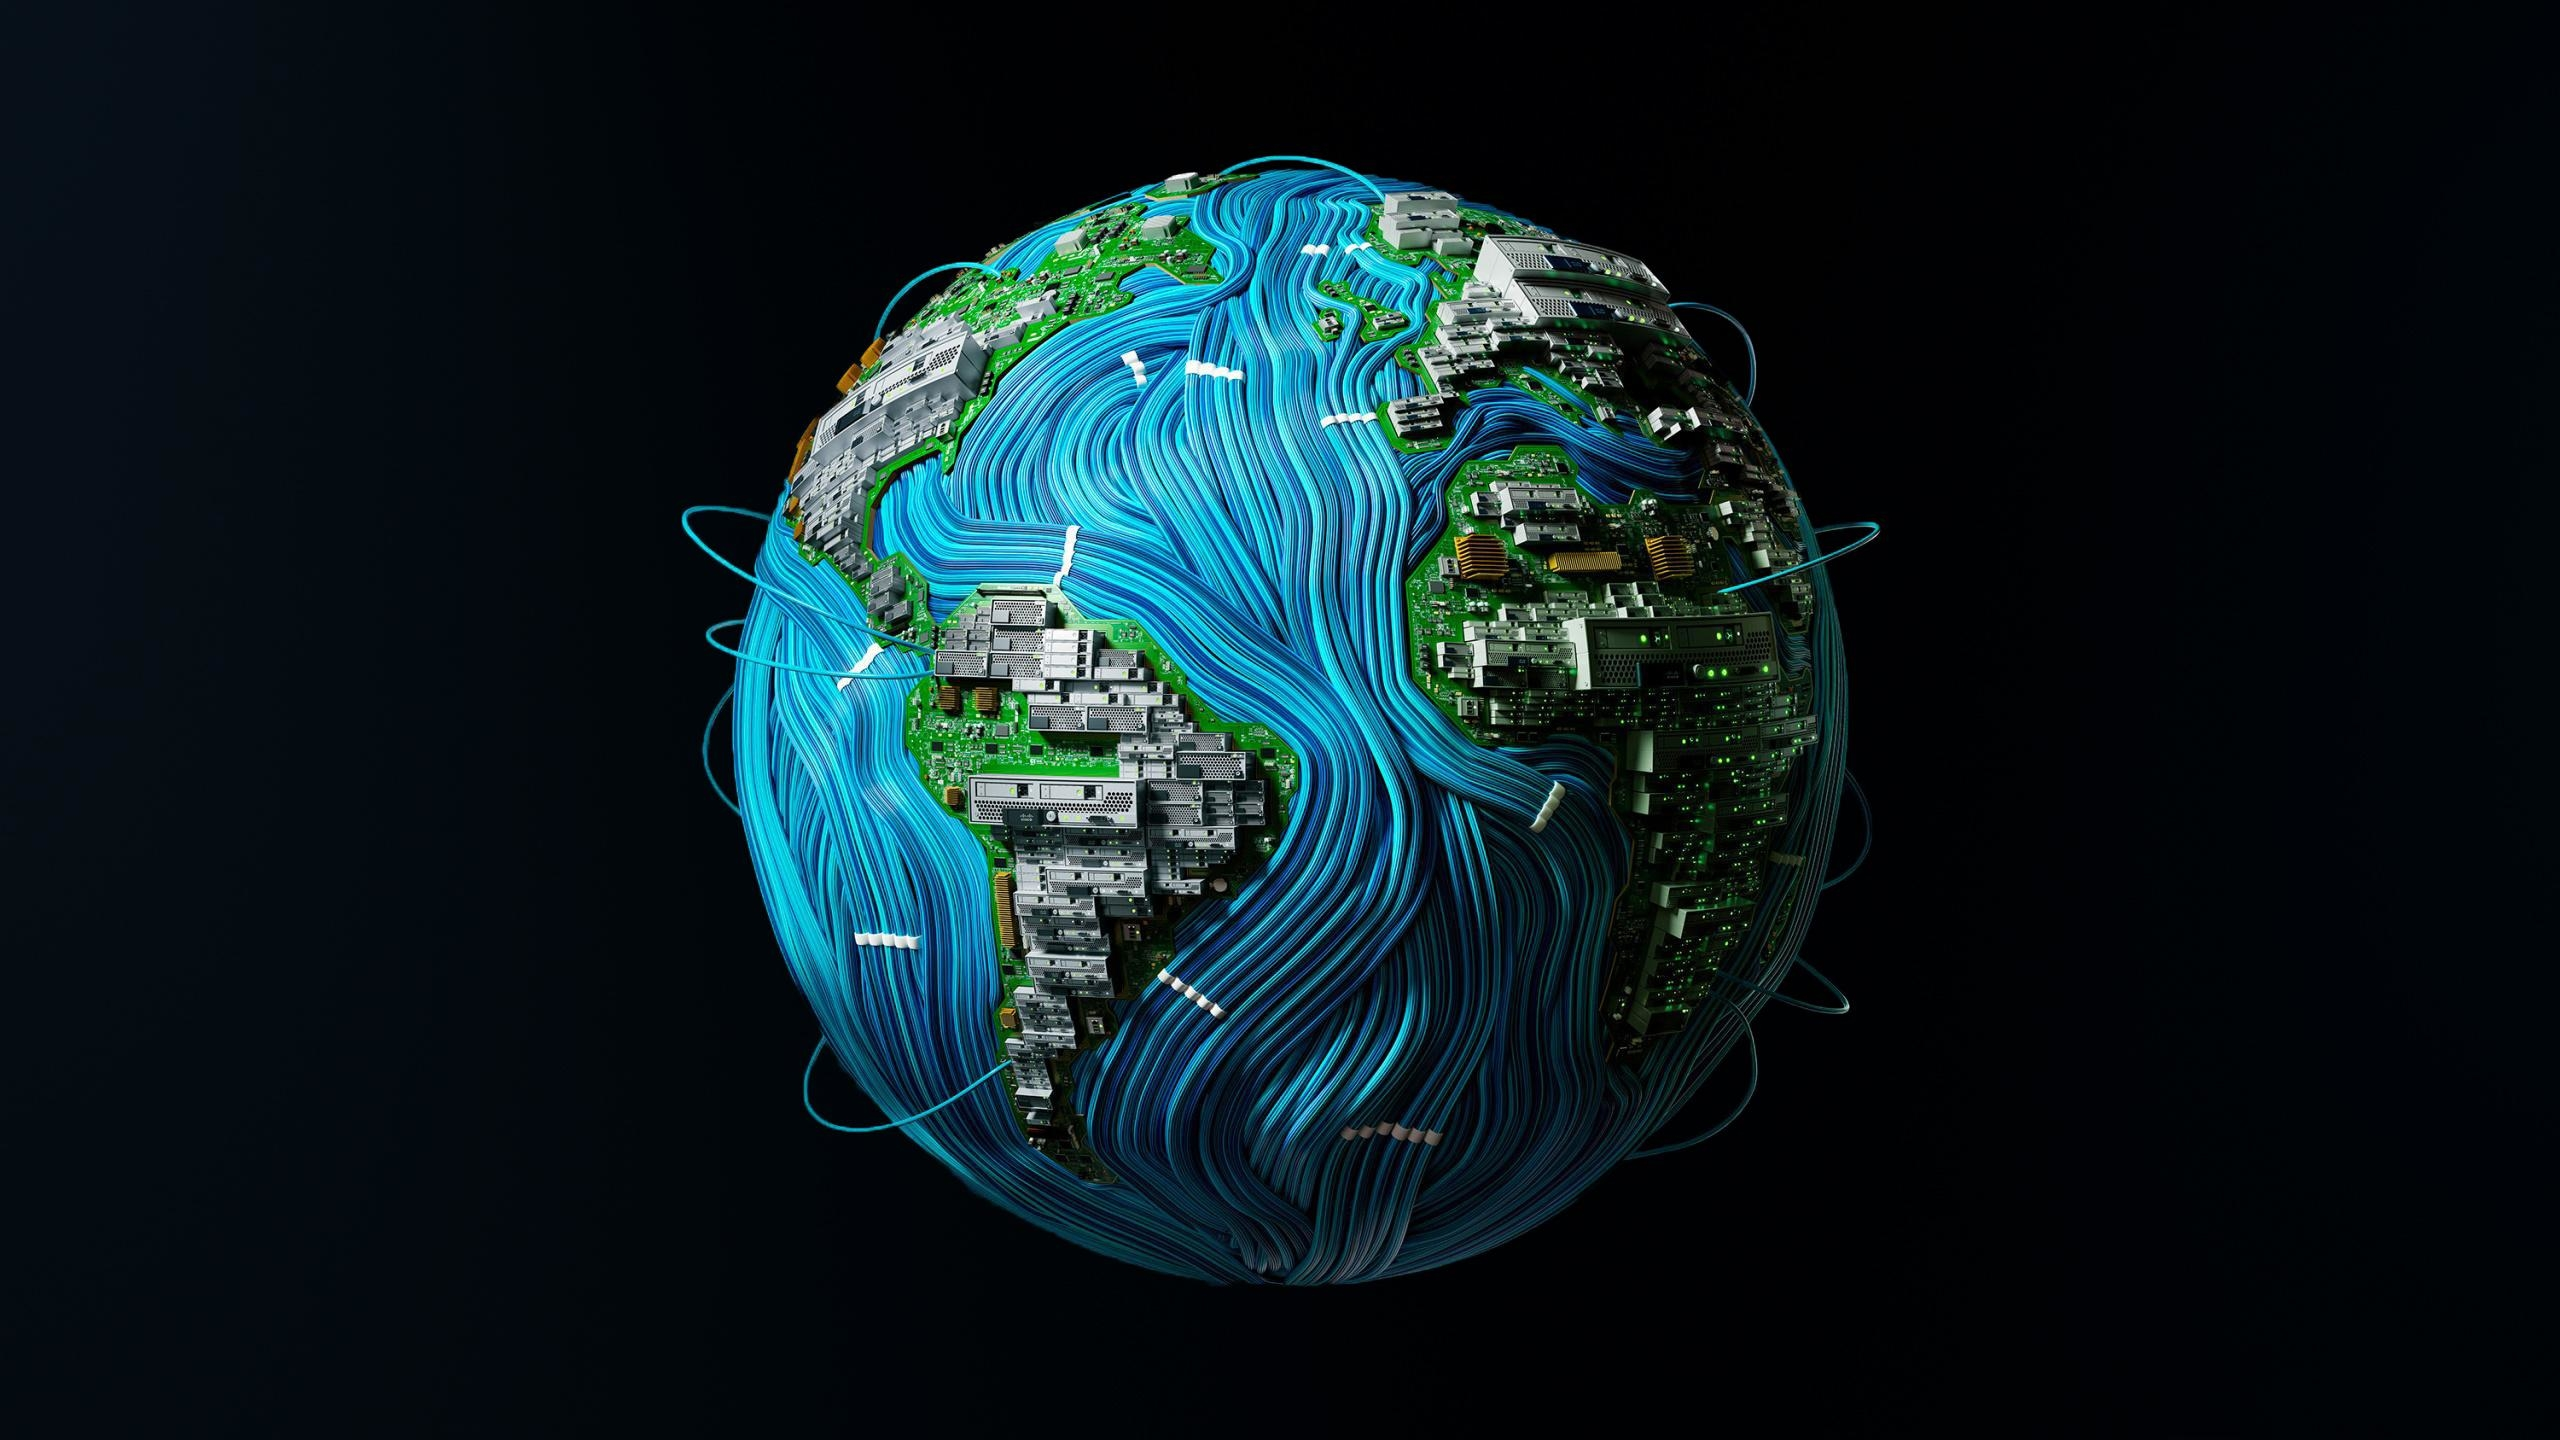
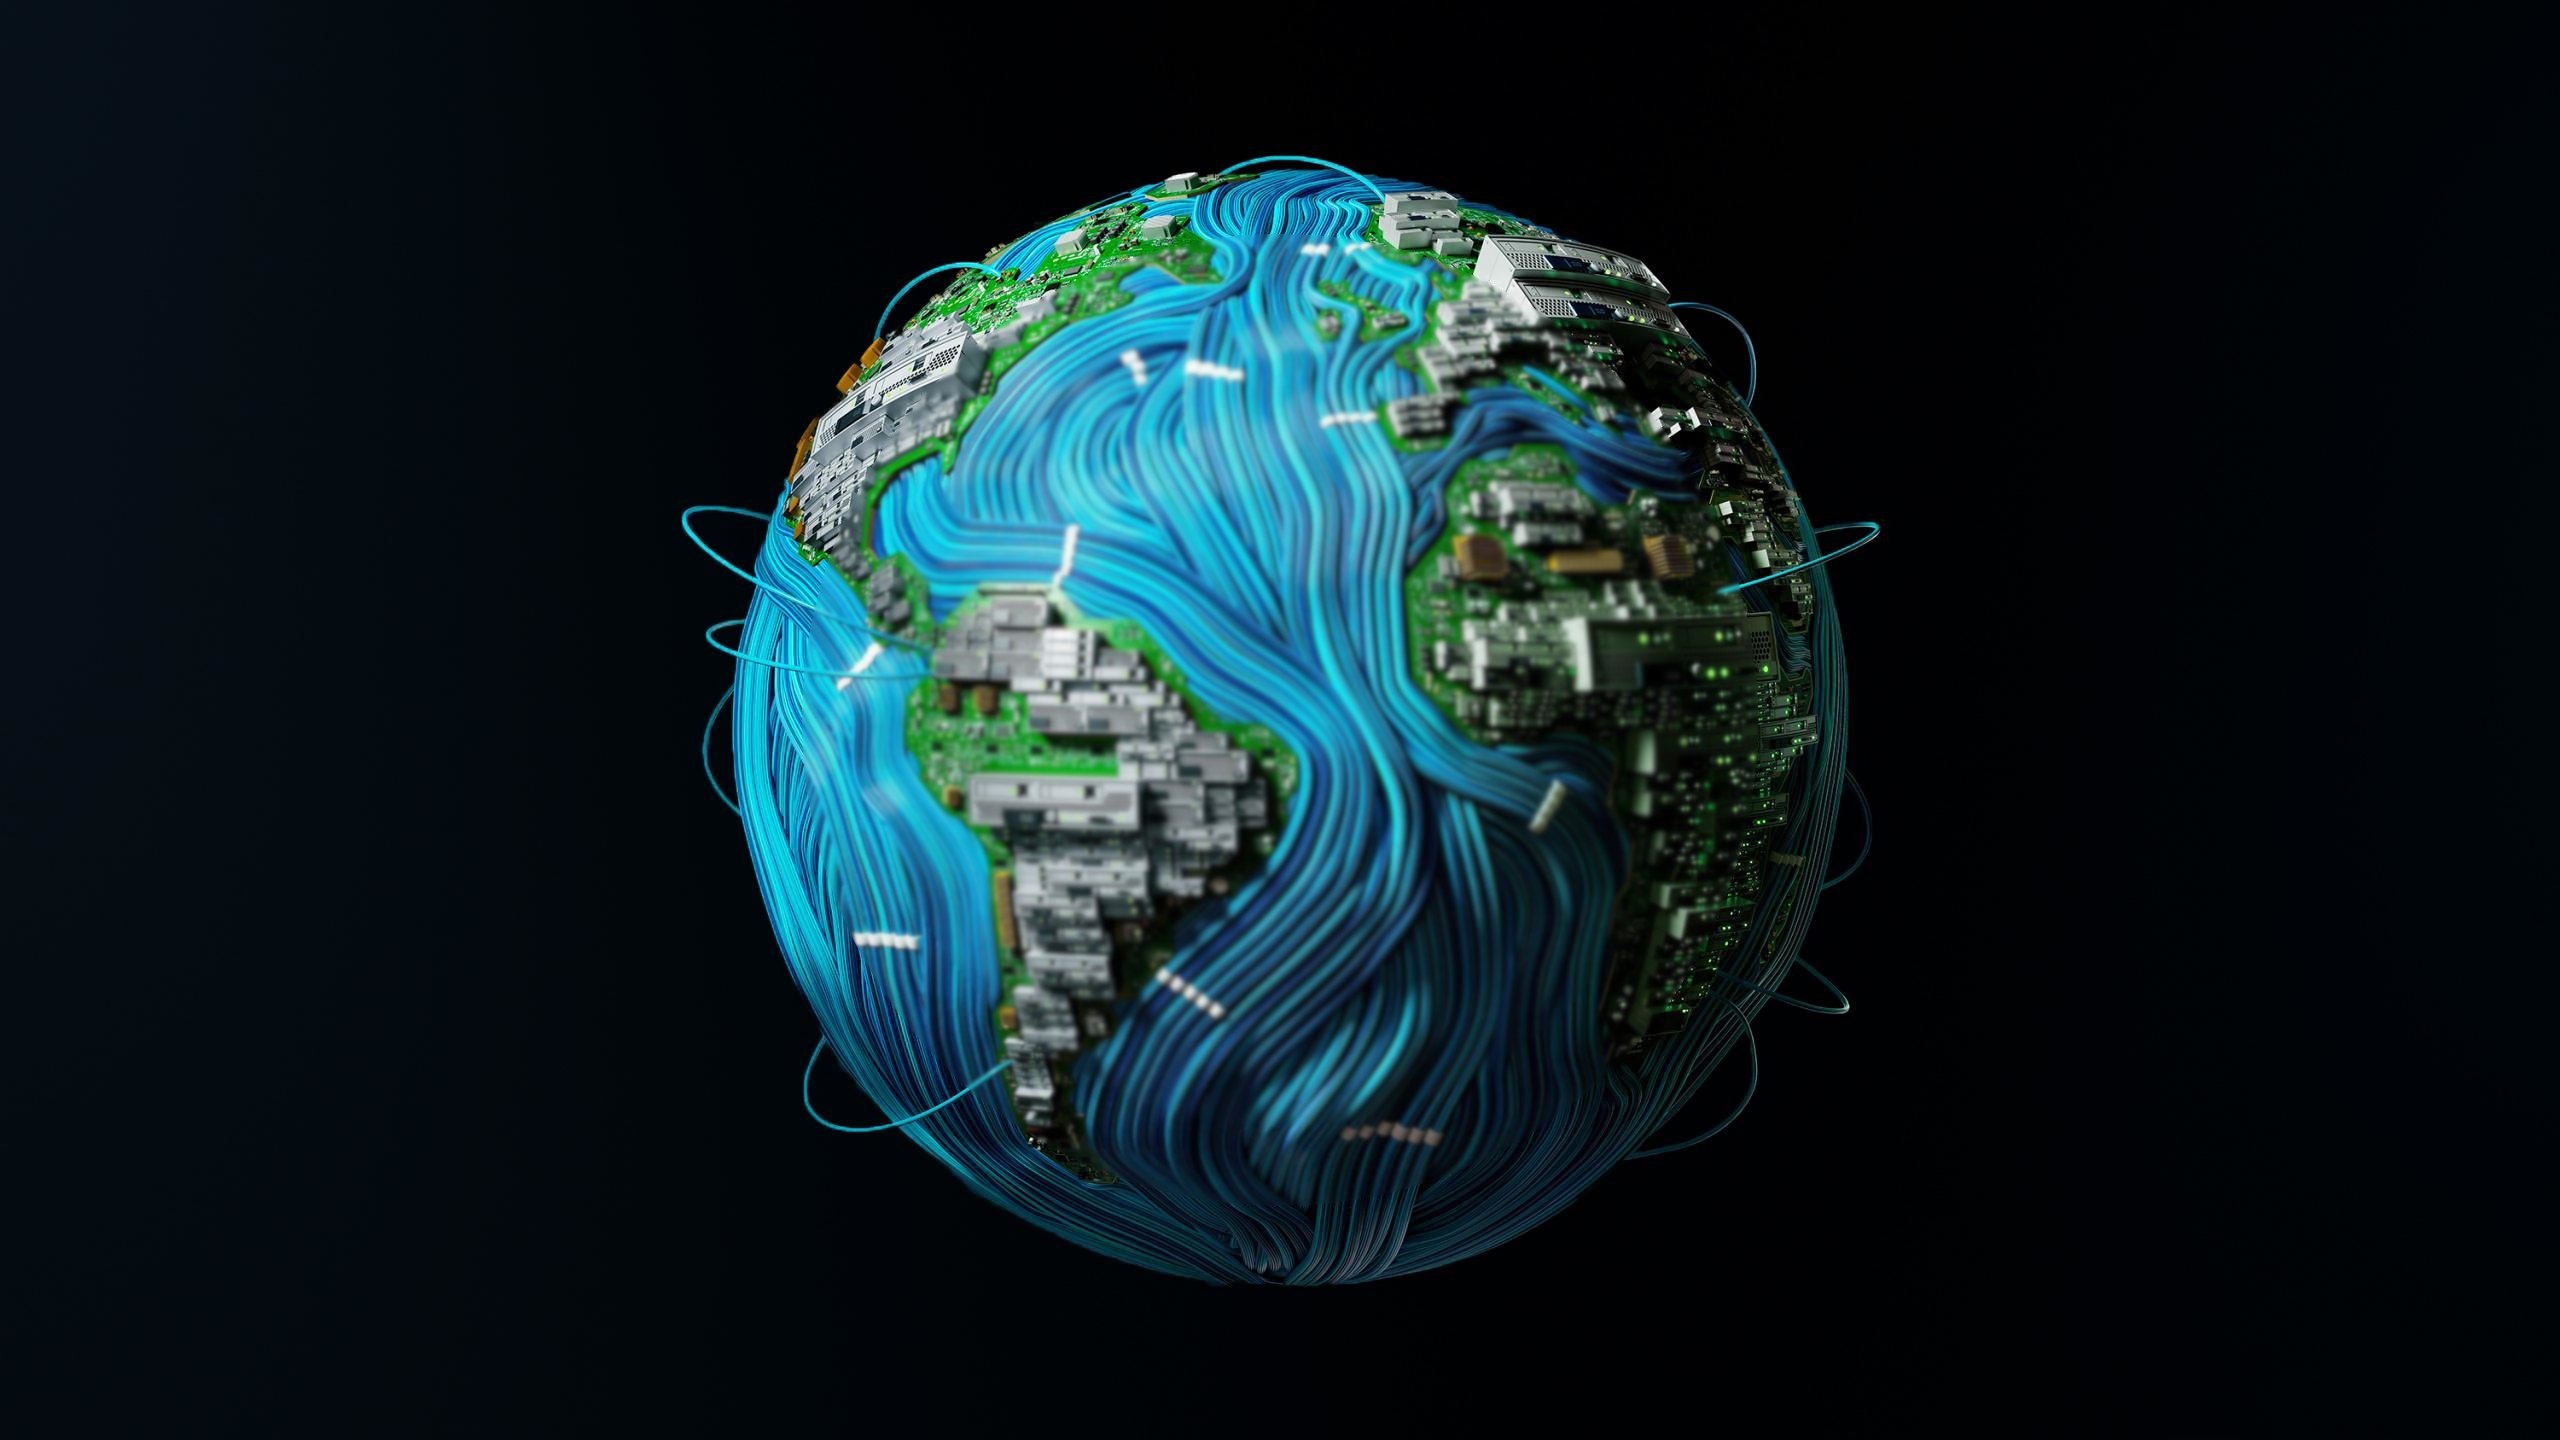
Updated 3/19/2022, Version 2.1. Added counter Remade background for text Remade colors Blured background image

Changed region(s): [[0.3125, 0.1562, 0.6875, 0.7812], [0.6562, 0.625, 0.6875, 0.6562]]

diff --git a/index.html b/index.html
@@ -12,6 +12,7 @@
 body {font-family: "Lato", sans-serif}
 .mySlides {display: none}
 </style>
+
 </head>
 <body>
 <!-- Navbar -->
@@ -167,21 +168,48 @@ scroll-snap-stop: always;
 .snap2 {
   position: relative;
 }
-.vertical div.snap h3 {position:absolute; bottom:250px; width:400px; padding:10px; left:calc(50% - 200px); color:#00000; text-align:center; font:20px/25px arial, sans-serif; background:#fff; border-radius:10px;}
+.vertical div.snap h3 {position:absolute; bottom:250px; width:400px; padding:10px; left:calc(50% - 200px); color:#ffff; text-align:center; font:400 20px/25px arial, sans-serif; background:rgba(0, 0, 0, 0.5); border-radius:10px;}
 .vertical div.stick h1 {position:absolute; padding:0; margin:0; bottom:0; left:calc(50% - 160px); width:320px; background:#fff; text-align:center; font:600 45px/90px arial, sans-serif; border-radius:10px 10px 0 0; color:#000;}
 .vertical div.snap .info {width:95%; max-width:700px; position:absolute; left:50%; top:50%; transform:translate(-50%, -50%); border-radius:50px; padding:30px;}
-.vertical div.snap .info h1 {padding:0; margin:0; font:400 100px/200px arial, sans-serif; color:#fff; text-align:center; text-shadow: -1px -1px 0 #000000, 1px -1px 0 #000000, -1px 1px 0 #000000, 1px 1px 0 #000000;}
-.vertical div.snap .info p {font:200 25px/50px arial, sans-serif; color:#fff;text-shadow: -1px -1px 0 #000000, 1px -1px 0 #000000, -1px 1px 0 #000000, 1px 1px 0 #000000;}
+.vertical div.snap .info h1 {padding:0; margin:0; font:600 120px/200px arial, sans-serif; color:#fff; text-align:center;}
+.vertical div.snap .info p {font:300 45px/70px arial, sans-serif; color:#fff;}
+</style>
+
+
+<script>
+function cb(response) {
+    document.getElementById('visits').innerText = response.value;
+}
+</script>
+<script async src="https://api.countapi.xyz/hit/jameswolfeblog.com/visits?callback=cb"></script>
+
+<style>
+#visits {
+  color:white;
+  font-size: 40px;
+}
 </style>
 
 <center>
          <div class="vertical" style="overflow-y: scroll;">
-       			<div class="stick"><img src="images/image.jpg"></div><div class="snap"><div class="info"><h1>ABLOG</h1><center><p>By James Wolfe</p></center><p></p></div></div>
-            <div class="stick"><h1>ABOUTME</h1></div><div class="snap"><h3>I'm a passioante computer science major with years of computer technology expierince with a enthusiastic look on learning every time I start something new. Fleshing out; developing, and publishing websites is fun for me and I can utilize neat services like the AWS Cloud and Github pages. My creative and problem-solving side is a great fit for technical professions. If you believe I could be a great fit for your team I would love to have a chat with you about potential opportunities, please email or message me on any social media platforms I provided.</h3></div>
+       			<div class="stick"><img src="images/image.jpg"></div>
+            <div class="snap" ><div class="info" style="background-color:rgba(0, 0, 0, 0.5);"><h1>ABLOG</h1>
+            <p>By James Wolfe</p>
+            <div><img src="images/icon.jpg" style="float:left; display:inline-block; margin-left:235px;margin-bottom:20px;"></div>
+            <div id="visits" style="float:left;text-align:center; padding-top:10px;">...</div></p>
+            </div>
+          </div>
+
+
+
+            <div class="stick"><h1>ABOUTME</h1></div><div class="snap"><h3>I'm a passioante computer science major with years of computer technology expierince with a enthusiastic look on learning every time I start something new. Fleshing out; developing, and publishing websites is fun for me and I can utilize neat services like the AWS Cloud and Github pages. My creative and problem-solving side is a great fit for technical professions. If you believe I could be a great fit for your team I would love to have a chat with you about potential opportunities, please email or message me on any social media platforms I provided.
+            </h3>
+          </div>
        			<div class="stick"><h1>WORKS</h1></div><div class="snap">
               <h3><a href="http://awsportfolio.s3-website-us-east-1.amazonaws.com/" target="_blank">AWS Cloud Website Portfolio</a>
               <br>Utilized AWS Cloud services to host,store, and launch a static website with HTML, css, and javascript code. The S3 bucket was used to store the data and launch a free static website.
-              <br><br>
+              <br>
+              <br>
               <a href="https://portfolioazure.z13.web.core.windows.net/" target="_blank">Azure Static Website Portfolio</a>
               <br>Azure services storage container were used to store the data and subscription service was used to host the free static website.
               </h3>
@@ -189,7 +217,8 @@ scroll-snap-stop: always;
               <div class="stick"><h1></h1></div><div class="snap">
                 <h3><a href="http://wolfejamesportfolio.surge.sh/" target="_blank">Surge Static Website portfolio</a>
                   <br>Using a publishing service called surge I was able to stand up a static website in seconds by using the CMD to go to the correct path and simply publishing the website.
-                  <br><br>
+                  <br>
+                  <br>
                   <a href="https://wolfejamesj96.wixsite.com/my-site" target="_blank">Wix Static Website Portfolio</a>
                   <br>Using Wix the simple add features bypass any need for coding HTML,css, or javascript. There inbuilt services allow for easy creations, maintaince, and hosting capabilities while also being free.
                   </h3>

diff --git a/counter/counter.php b/counter/counter.php
@@ -1,0 +1,24 @@
+<?php
+function visitor($record) {
+  $db_host = "jameswolfeblog.com";
+  $db_username = "username"; 
+  $db_password = "password";
+  $db_name = "index.html";
+  $db_table = "table-name";
+  $counter_page = "jameswolfeblog.com";
+  $counter_field = "access_counter";
+
+  $db = mysqli_connect ($db_host, $db_username, $db_password, $db_name) or die("Host or database not accessible");
+
+  $sql_call = "INSERT INTO ".$db_table." (".$counter_page.", ".$counter_field.") VALUES ('".$record."', 1) ON DUPLICATE KEY UPDATE ".$counter_field." = ".$counter_field." + 1"; 
+  mysqli_query($db, $sql_call) or die("Error while entering");
+
+$sql_call = "SELECT ".$counter_field. " FROM ".$db_table." WHERE ".$counter_page. " = '".$record. "'";
+$sql_result = mysqli_query($db, $sql_call) or die("SQL request failed ");
+$row = mysqli_fetch_assoc($sql_result);
+$x = $row[$counter_field];
+
+mysqli_close($db);
+return $x;
+  }
+?>
